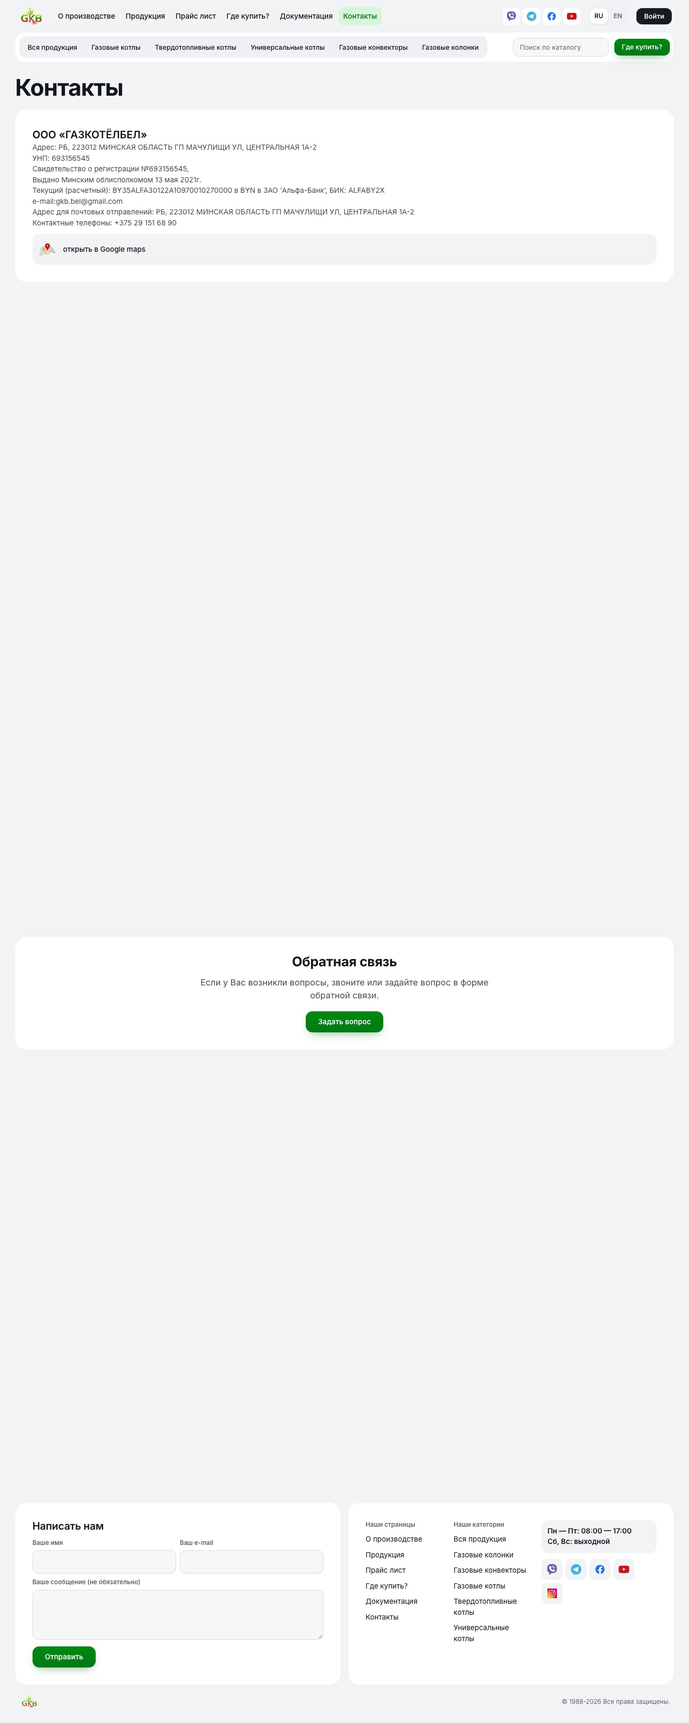
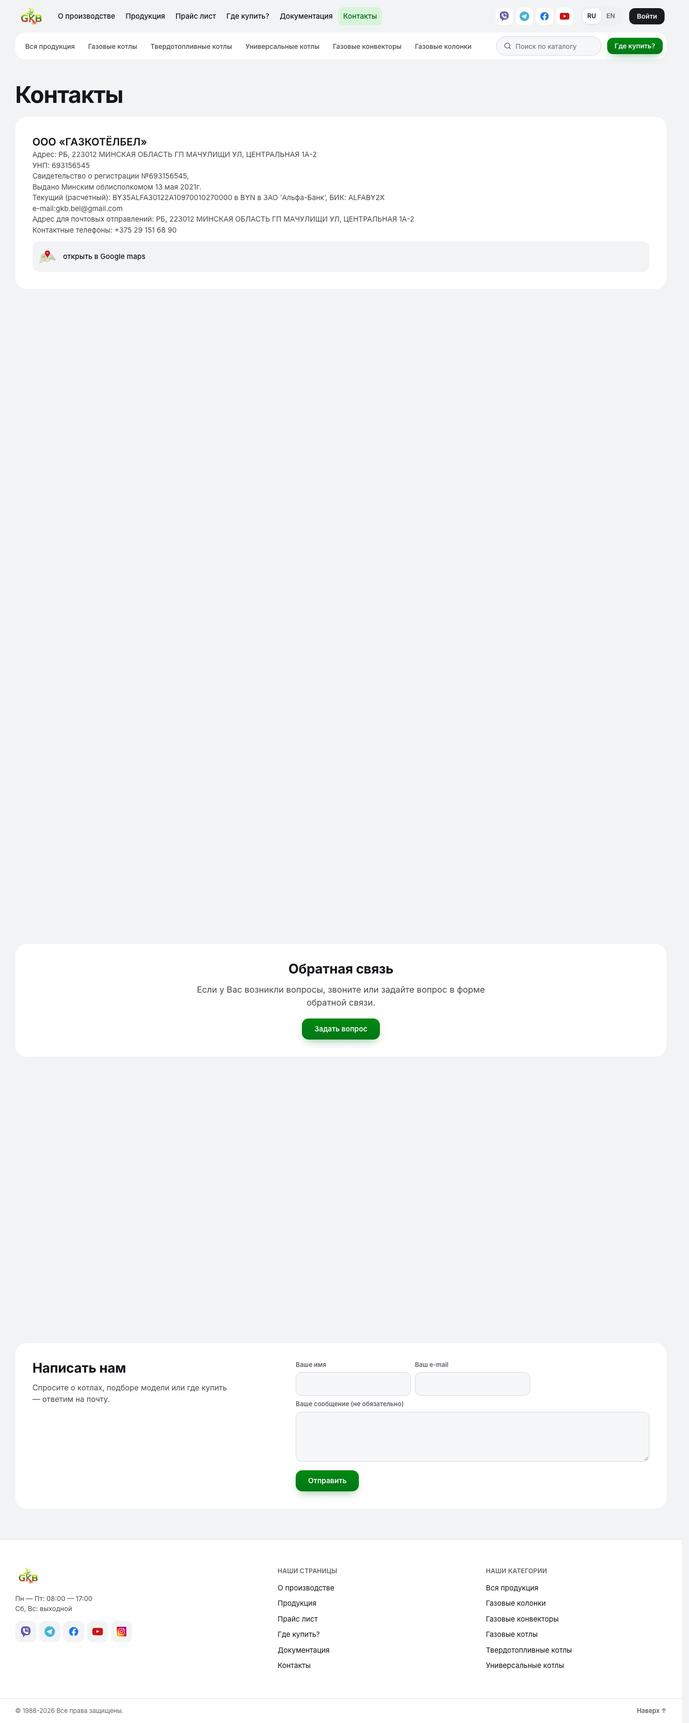
openspec: спеки редизайна сверены с выложенным сайтом
Спеки писались до правок по замечаниям. Теперь они описывают то, что
работает на сайте: форма над подвалом и подвал полосой во всю ширину, поиск
во весь экран с популярными запросами и подсказками, переключение языка с
отдельным кешем на каждый язык, лента категорий без подложки, шапка без
сдвигов, иконки без сдвига, стрелки и счётчик галереи, три вида таблиц по
числу колонок.

В design.md добавлено решение про автосброс кеша после выкладки. Группа 10
(разметка контента в админке) отмечена как вынесенная за рамки изменения.

diff --git a/openspec/changes/site-redesign/specs/site-header/spec.md b/openspec/changes/site-redesign/specs/site-header/spec.md
@@ -38,6 +38,24 @@
 - **WHEN** посетитель открывает страницу категории «Газовые котлы»
 - **THEN** сегмент «Газовые котлы» в панели категорий выделен
 
+### Requirement: Вид ленты категорий
+
+Категории в нижнем ярусе шапки и в каталоге SHALL выводиться отдельными «таблетками» без общей серой подложки: активная категория подсвечена зелёным, остальные — при наведении.
+
+#### Scenario: Открыта страница категории
+
+- **WHEN** посетитель открывает страницу категории «Газовые котлы»
+- **THEN** «Газовые котлы» подсвечены зелёной таблеткой, остальные категории — простым текстом на белом
+
+### Requirement: Шапка не сдвигается при переходах
+
+При переходе между страницами разной длины шапка MUST NOT сдвигаться по горизонтали, а подписи меню MUST NOT заметно перескакивать при загрузке шрифта. Между шапкой и первым блоком страницы SHALL быть отступ.
+
+#### Scenario: Короткая и длинная страница
+
+- **WHEN** посетитель переходит с длинной страницы каталога на короткую страницу входа
+- **THEN** логотип и пункты меню остаются на тех же местах
+
 ### Requirement: Раскрытие моделей категории
 
 При наведении на категорию в панели категорий SHALL раскрываться панель с товарами этой категории: у каждого товара — миниатюра изображения, название и короткое описание. Панель SHALL закрываться, когда курсор уходит с панели категорий. Сама ссылка категории SHALL вести на страницу этой категории.
@@ -62,23 +80,38 @@
 - **WHEN** посетитель доходит клавишей Tab до категории
 - **THEN** список моделей этой категории раскрывается и его ссылки доступны следующими нажатиями Tab
 
-### Requirement: Поиск по каталогу сохраняется
+### Requirement: Поиск по каталогу во весь экран
 
-В шапке SHALL оставаться поиск по каталогу. Отправка запроса SHALL открывать страницу каталога с результатами по этому запросу — так же, как до редизайна.
+В шапке SHALL оставаться поиск по каталогу. Нажатие на поле поиска SHALL открывать поиск во весь экран: крупное поле ввода, популярные запросы под ним и мгновенные подсказки по товарам по мере ввода — с категорией, изображением и подсветкой совпадения. Нажатие на популярный запрос SHALL подставлять его в поле. Enter SHALL открывать страницу каталога с результатами по запросу — так же, как до редизайна. Поиск SHALL закрываться кнопкой закрытия и клавишей Esc.
 
-#### Scenario: Поиск с десктопа
+#### Scenario: Открытие поиска
 
-- **WHEN** посетитель вводит «турбо» в поле поиска шапки и нажимает Enter
+- **WHEN** посетитель нажимает на поле поиска в шапке
+- **THEN** открывается поиск во весь экран, курсор стоит в поле, под ним видны популярные запросы
+
+#### Scenario: Мгновенные подсказки
+
+- **WHEN** посетитель вводит «турбо»
+- **THEN** под полем сразу появляются подходящие товары со совпадением, выделенным цветом, и ссылка на все результаты в каталоге
+
+#### Scenario: Переход к выдаче
+
+- **WHEN** посетитель вводит запрос и нажимает Enter
 - **THEN** открывается страница каталога, где показаны только товары, подходящие под запрос
+
+#### Scenario: Ничего не найдено
+
+- **WHEN** запрос не совпадает ни с одним товаром
+- **THEN** показано «Ничего не найдено» и ссылка на поиск по каталогу
 
 #### Scenario: Поиск с телефона
 
-- **WHEN** посетитель открывает меню на экране шириной 390px
-- **THEN** поле поиска доступно и работает так же, как на десктопе
+- **WHEN** посетитель открывает меню на экране шириной 390px и нажимает на поле поиска
+- **THEN** поиск открывается во весь экран и работает так же, как на десктопе
 
 ### Requirement: Переключатель языка сохраняется
 
-В шапке SHALL оставаться переключатель RU/EN. Переключение SHALL менять язык содержимого сайта так же, как до редизайна, и выбранный язык SHALL сохраняться при переходе на другие страницы.
+В шапке SHALL оставаться переключатель RU/EN. Переключение SHALL менять язык содержимого сайта, и выбранный язык SHALL сохраняться при переходе на другие страницы — в том числе на страницах, которые отдаются из кеша. Кеш страниц SHALL хранить отдельную копию для каждого языка.
 
 #### Scenario: Переключение на английский
 
@@ -87,8 +120,13 @@
 
 #### Scenario: Язык держится между страницами
 
-- **WHEN** посетитель выбрал EN и перешёл на страницу товара
+- **WHEN** посетитель выбрал EN и перешёл на страницу товара по обычному адресу
 - **THEN** страница товара тоже показана на английском
+
+#### Scenario: Возврат на русский
+
+- **WHEN** посетитель на английской версии выбирает RU
+- **THEN** страница показана на русском
 
 ### Requirement: Вход и выход
 

diff --git a/openspec/changes/site-redesign/specs/site-footer/spec.md b/openspec/changes/site-redesign/specs/site-footer/spec.md
@@ -1,17 +1,17 @@
 ## Purpose
 
-Подвал сайта: встроенная форма обратной связи вместо всплывающего окна, колонки ссылок на страницы и категории, часы работы, соцсети и копирайт.
+Нижняя часть каждой страницы: блок формы обратной связи без всплывающего окна и подвал — полоса во всю ширину окна с логотипом, часами работы, соцсетями, колонками ссылок на страницы и категории и строкой копирайта.
 
 ## ADDED Requirements
 
-### Requirement: Форма обратной связи встроена в подвал
+### Requirement: Форма обратной связи на каждой странице
 
-Форма обратной связи SHALL быть видна прямо в подвале каждой страницы, отдельной белой карточкой с заголовком «Написать нам», полями имени, e-mail, сообщения и кнопкой отправки. Форма MUST NOT требовать открытия всплывающего окна.
+Над подвалом каждой страницы SHALL выводиться блок «Написать нам»: белая карточка с заголовком, коротким пояснением, полями имени, e-mail, сообщения и кнопкой отправки. Форма MUST NOT требовать открытия всплывающего окна.
 
 #### Scenario: Форма видна сразу
 
-- **WHEN** посетитель прокручивает любую страницу до подвала
-- **THEN** форма обратной связи видна на месте, без нажатия каких-либо кнопок
+- **WHEN** посетитель прокручивает любую страницу до низа
+- **THEN** над подвалом видна форма обратной связи, без нажатия каких-либо кнопок
 
 #### Scenario: Успешная отправка
 
@@ -26,16 +26,16 @@
 
 ### Requirement: Кнопки «Написать нам» ведут к форме в подвале
 
-Кнопки «Написать нам» на страницах товаров и в других блоках SHALL переводить посетителя к форме в подвале той же страницы, а не открывать всплывающее окно.
+Кнопки «Написать нам» и «Задать вопрос» на страницах товаров и в других блоках SHALL переводить посетителя к форме обратной связи той же страницы, а не открывать всплывающее окно.
 
 #### Scenario: Нажатие на странице товара
 
 - **WHEN** посетитель на странице товара нажимает «Написать нам»
-- **THEN** страница прокручивается к форме обратной связи в подвале, и форма видна целиком
+- **THEN** страница прокручивается к форме обратной связи, и форма видна целиком
 
 ### Requirement: Состав подвала
 
-Подвал SHALL содержать карточку со ссылками: колонку «Наши страницы» с пунктами навигации, колонку «Наши категории» со ссылкой «Вся продукция» и списком категорий, блок с часами работы и иконками соцсетей. Ниже SHALL выводиться логотип и строка копирайта с текущим годом.
+Подвал SHALL быть полосой во всю ширину окна внизу страницы. Он SHALL содержать логотип, часы работы, иконки соцсетей, колонку «Наши страницы» с пунктами навигации, колонку «Наши категории» со ссылкой «Вся продукция» и списком категорий, а ниже — строку копирайта с текущим годом и ссылку «Наверх». Ссылки-иконки, которые редактор держит в поле «Общая информация» вместе с часами, SHALL выводиться в общем ряду соцсетей, а не внутри блока часов. Строка часов работы MUST NOT переноситься посередине.
 
 #### Scenario: Ссылки и категории
 
@@ -47,6 +47,12 @@
 
 - **WHEN** посетитель открывает подвал
 - **THEN** видны часы работы и иконки соцсетей, ведущие на внешние страницы компании
+- **AND** иконка Instagram стоит в одном ряду с остальными соцсетями
+
+#### Scenario: Часы на телефоне
+
+- **WHEN** посетитель открывает подвал на экране шириной 390px
+- **THEN** «Пн — Пт: 08:00 — 17:00» выведено одной строкой
 
 #### Scenario: Копирайт
 
@@ -55,10 +61,10 @@
 
 ### Requirement: Подвал на мобильных
 
-На экранах уже 900px карточки и колонки подвала SHALL выстраиваться друг под другом, занимая всю ширину, без горизонтальной прокрутки.
+На экранах уже 900px колонки подвала и поля формы SHALL выстраиваться друг под другом, без горизонтальной прокрутки.
 
 #### Scenario: Телефон
 
 - **WHEN** посетитель открывает подвал на экране шириной 390px
-- **THEN** форма, колонки ссылок и блок с часами идут вертикально друг за другом
+- **THEN** поля формы, блок с часами и колонки ссылок идут вертикально друг за другом
 - **AND** страница не прокручивается вбок

diff --git a/openspec/changes/site-redesign/specs/product-page/spec.md b/openspec/changes/site-redesign/specs/product-page/spec.md
@@ -6,7 +6,7 @@
 
 ### Requirement: Галерея товара
 
-Страница товара SHALL показывать крупное изображение товара и ленту миниатюр всех его изображений. Нажатие на миниатюру SHALL менять крупное изображение без перезагрузки страницы, активная миниатюра SHALL быть выделена. В углу крупного изображения SHALL выводиться счётчик вида «2 / 5». На экранах от 900px лента миниатюр SHALL располагаться вертикально слева от изображения, на более узких — горизонтально под ним.
+Страница товара SHALL показывать крупное изображение товара и ленту миниатюр всех его изображений. Нажатие на миниатюру SHALL менять крупное изображение без перезагрузки страницы, активная миниатюра SHALL быть выделена. В правом верхнем углу крупного изображения SHALL выводиться компактный счётчик вида «2 / 5», по бокам — стрелки перелистывания; на первом и последнем снимке соответствующая стрелка неактивна. Рамка активной миниатюры SHALL быть видна целиком. На экранах от 900px лента миниатюр SHALL располагаться вертикально слева от изображения, на более узких — горизонтально под ним.
 
 #### Scenario: Переключение изображения
 
@@ -18,10 +18,15 @@
 - **WHEN** посетитель открывает страницу товара на экране шириной 390px
 - **THEN** крупное изображение показано сверху, а лента миниатюр — под ним, с прокруткой вбок внутри ленты
 
+#### Scenario: Стрелки
+
+- **WHEN** посетитель нажимает стрелку «вперёд»
+- **THEN** показывается следующее изображение, счётчик и выделенная миниатюра меняются
+
 #### Scenario: Одно изображение
 
 - **WHEN** у товара задано единственное изображение
-- **THEN** лента миниатюр и счётчик не выводятся, показано только крупное изображение
+- **THEN** лента миниатюр, счётчик и стрелки не выводятся, показано только крупное изображение
 
 #### Scenario: Нет изображений
 
@@ -93,7 +98,12 @@
 
 ### Requirement: Таблицы характеристик
 
-Таблицы во вкладке «Технические характеристики» SHALL оставаться читаемыми на любом экране: таблица шире контейнера SHALL прокручиваться вбок внутри своей области, первая колонка с названием параметра SHALL оставаться видимой при прокрутке вбок, строки SHALL разделяться линиями, шапка таблицы SHALL визуально отличаться от строк.
+Таблицы во вкладках товара SHALL оставаться читаемыми на любом экране. Вид таблицы определяется числом колонок в её первой строке:
+- две колонки — список «параметр — значение»: без рамки и подложки, только строки с разделителем, параметр серым, значение тёмным;
+- три колонки (комплектация) — компактная таблица по ширине карточки, с переносом текста и без прокрутки;
+- четыре и больше (модели) — таблица шириной по содержимому в рамке: значения не переносятся, при нехватке места она прокручивается вбок внутри своей области, первая колонка с названием параметра остаётся видимой.
+
+Колонки MUST NOT сжиматься до ширины, при которой значение переносится по буквам.
 
 #### Scenario: Широкая таблица на десктопе
 
@@ -104,6 +114,21 @@
 
 - **WHEN** посетитель открывает ту же вкладку на экране шириной 390px
 - **THEN** вбок прокручивается только таблица, а страница целиком — нет
+
+#### Scenario: Список «параметр — значение»
+
+- **WHEN** посетитель открывает характеристики товара с таблицей на две колонки
+- **THEN** она выведена списком без рамки и вертикальных линий
+
+#### Scenario: Комплектация на телефоне
+
+- **WHEN** посетитель открывает вкладку «Комплектация» на экране шириной 390px
+- **THEN** все три колонки видны целиком без прокрутки вбок
+
+#### Scenario: Двенадцать моделей
+
+- **WHEN** посетитель открывает характеристики Житомир-3 с одиннадцатью моделями
+- **THEN** каждая колонка модели читается целиком, таблица прокручивается вбок внутри рамки
 
 #### Scenario: Сноска под таблицей
 

diff --git a/openspec/changes/site-redesign/design.md b/openspec/changes/site-redesign/design.md
@@ -137,6 +137,12 @@
 
 **Почему:** иначе общие элементы соберутся из частных случаев трёх страниц и начнут расходиться на четвёртой. Это же определяет порядок задач в [tasks.md](tasks.md).
 
+### Д13. Кеш страниц сбрасывается темой после каждой выкладки
+
+**Решение:** `hooks_filters/cache_purge.php` сравнивает имя собранного файла стилей с запомненным. Имя при каждой сборке новое, поэтому при первом некешированном запросе после выкладки тема сбрасывает кеш WP-Optimize (страницы и склейку) и W3 Total Cache и перезаписывает конфиг кеша WP-Optimize. Фильтр `wpo_cache_cookies` добавляет куку `lang` — у каждого языка своя копия страницы. Переключатель языка открывает адрес с `?lang=`: такие запросы кеш не обслуживает, а язык из адреса важнее куки.
+
+**Почему:** без этого посетители после выкладки получали копии страниц, сохранённые до неё, со старой разметкой и старыми скриптами, а английская версия отдавала русскую копию.
+
 ## Risks / Trade-offs
 
 - **Два стилевых файла на странице.** `register_styles_scripts()` подключает всё, что найдёт в `dist/`, а имена файлов при сборке случайны. Если старый артефакт не удалён — на странице окажутся две версии стилей. → Локально задача `build` начинается с `clearDist`. На сервере удаление старых файлов зависит от того, что FTP-действие помнит их в своём state-файле; после первой выкладки нужно убедиться, что в `dist/` на сервере остался один файл стилей и один скриптов, и при необходимости удалить лишние вручную.

diff --git a/openspec/changes/site-redesign/tasks.md b/openspec/changes/site-redesign/tasks.md
@@ -76,6 +76,8 @@
 
 ## 10. Контент товаров
 
+> **Вынесено за рамки изменения.** Разметка контента делается в админке WordPress, доступа к которой при работе над изменением не было. Базовое оформление вкладок работает и без опорных классов; правила разметки и замечание о пустых абзацах-распорках описаны в `REFERENCE.md`. Задачи оставлены открытыми, чтобы при необходимости завести их отдельным изменением.
+
 - [ ] 10.1 Разметить опорными классами русские версии полей вкладок у 13 товаров; проверка — вкладка «Особенности и преимущества» у каждого товара выглядит как в макете
 - [ ] 10.2 Повторить разметку в английских версиях тех же полей; проверка — с кукой `lang=en` вкладки выглядят так же, как русские
 - [ ] 10.3 Сверить текст без разметки с сохранёнными `*-before.html` по каждому полю; проверка — расхождений в текстах, числах, единицах измерения и адресах файлов нет

diff --git a/openspec/changes/site-redesign/specs/product-card/spec.md b/openspec/changes/site-redesign/specs/product-card/spec.md
@@ -31,6 +31,7 @@
 
 - **WHEN** посетитель наводит курсор на иконку характеристики
 - **THEN** над иконкой появляется подсказка с её подписью, например «Необходимо подключение к электричеству»
+- **AND** изображение иконки сменяется на активное на месте, не сдвигаясь
 
 #### Scenario: Касание иконки на телефоне
 
